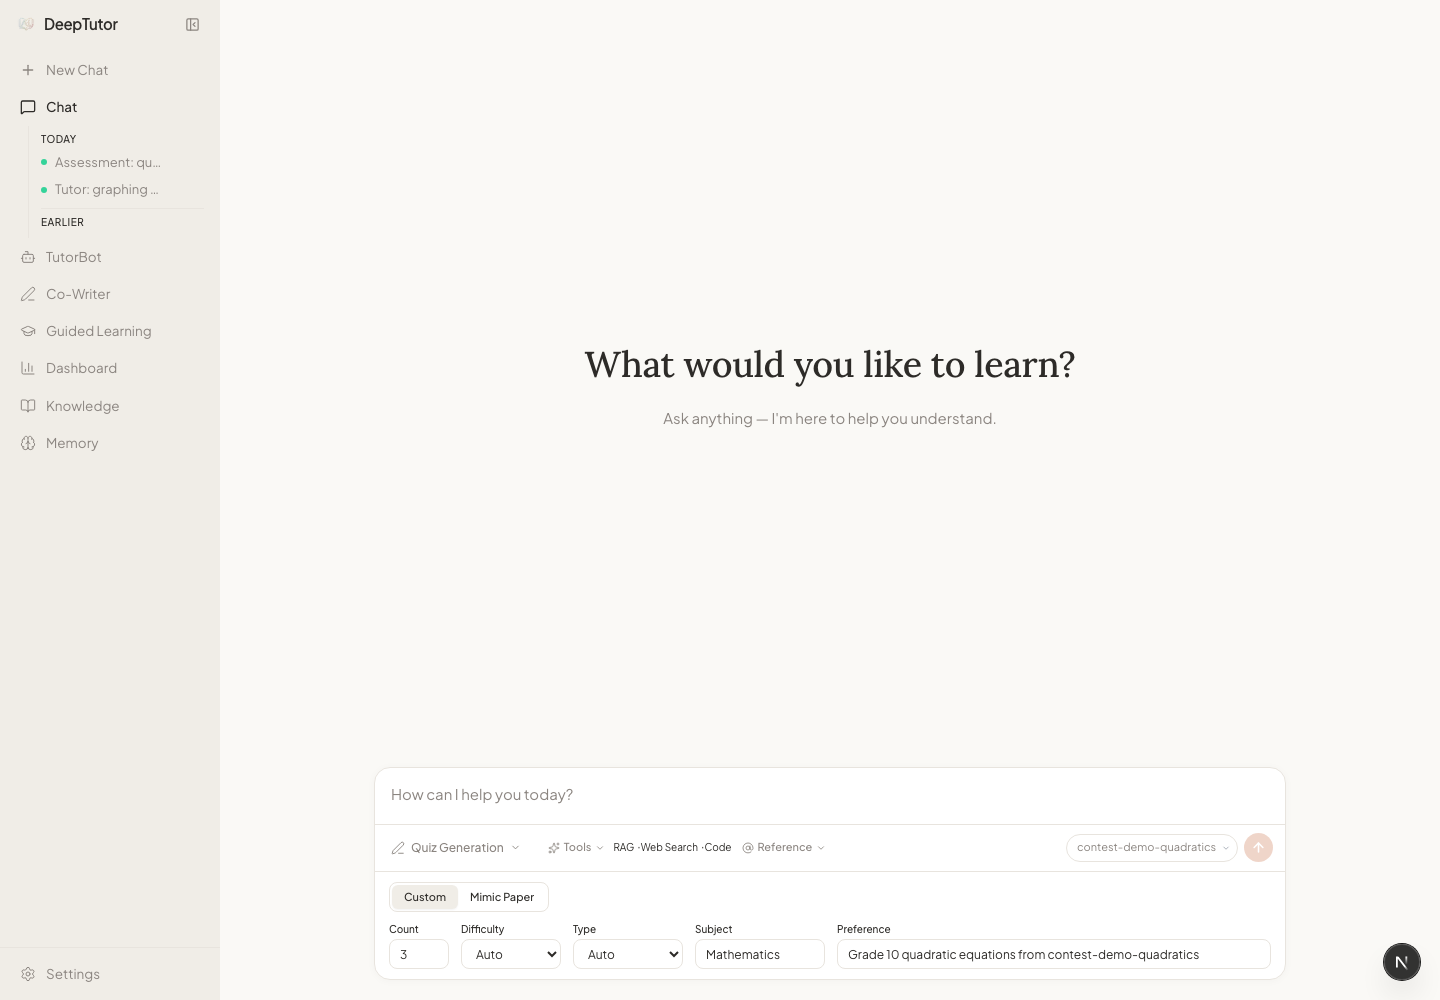
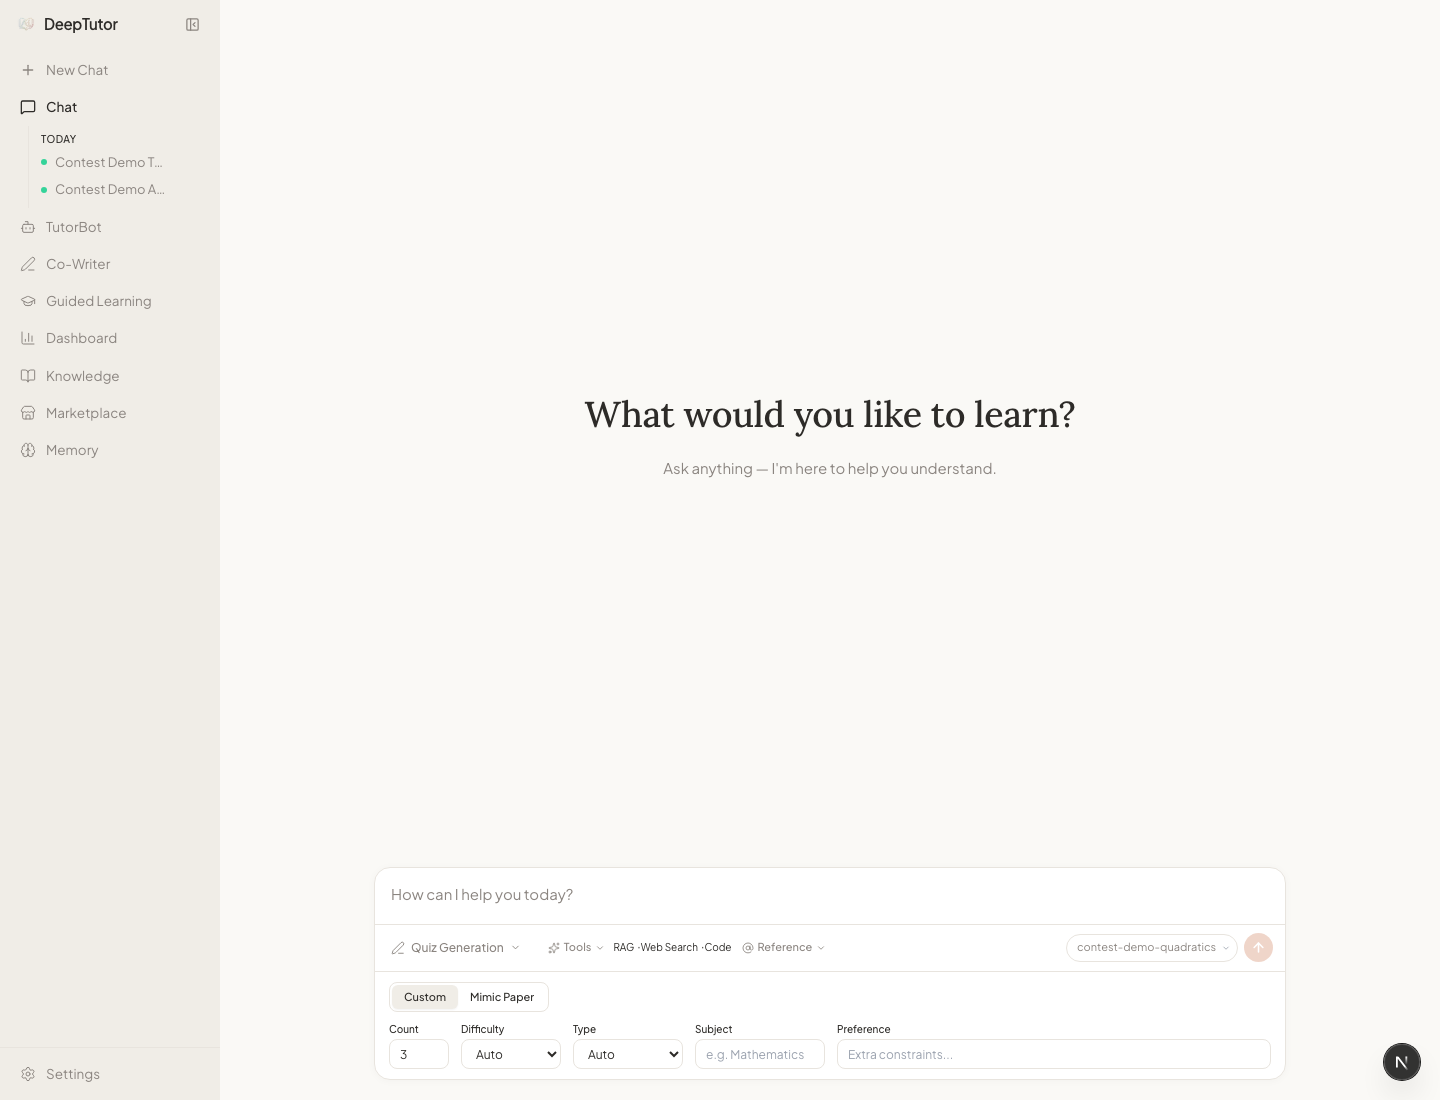
docs: refresh contest screenshot evidence

diff --git a/docs/contest/EVIDENCE_CHECKLIST.md b/docs/contest/EVIDENCE_CHECKLIST.md
@@ -8,15 +8,15 @@ Refresh these only when the UI changed or when the latest smoke-backed validatio
 
 | Area | Evidence | Refresh mode | Status | Notes |
 | --- | --- | --- | --- | --- |
-| Knowledge Pack | Metadata form filled with demo-safe subject, grade, curriculum, objectives, owner, and sharing status | Human capture | Stale | Existing capture is still linked, but recent merged UI changes were not followed by a new screenshot pass. |
-| Knowledge Pack | Metadata still visible after reload | Human capture | Stale | Existing capture is still linked, but recent merged UI changes were not followed by a new screenshot pass. |
-| Assessment | Quiz or assessment configuration using the demo subject or Knowledge Pack | Human capture | Stale | Existing capture is still linked, but recent merged UI changes were not followed by a new screenshot pass. |
-| Assessment | Generated questions visible | Human capture | Stale | Existing capture is still linked, but recent merged UI changes were not followed by a new screenshot pass. |
-| Assessment | Common-mistake or feedback guidance visible | Human capture | Stale | Existing capture is still linked, but recent merged UI changes were not followed by a new screenshot pass. |
-| Tutor Agent | Student asks a follow-up question | Human capture | Stale | Existing capture is still linked, but recent merged UI changes were not followed by a new screenshot pass. |
-| Tutor Agent | Tutor response with learning context | Human capture | Stale | Existing capture is still linked, but recent merged UI changes were not followed by a new screenshot pass. |
-| Dashboard | Summary cards visible | Human capture | Stale | Existing capture is still linked, but recent merged UI changes were not followed by a new screenshot pass. |
-| Dashboard | Recent activity includes assessment/tutoring distinction and Knowledge Pack reference | Human capture | Stale | Existing capture is still linked, but recent merged UI changes were not followed by a new screenshot pass. |
+| Knowledge Pack | Metadata form filled with demo-safe subject, grade, curriculum, objectives, owner, and sharing status | Human capture | Current | Refreshed on 2026-04-24 in `T037` from the current Knowledge Pack edit surface. |
+| Knowledge Pack | Metadata still visible after reload | Human capture | Current | Refreshed on 2026-04-24 in `T037` after reload against the current Knowledge Pack UI. |
+| Assessment | Quiz or assessment configuration using the demo subject or Knowledge Pack | Human capture | Current | Refreshed on 2026-04-24 in `T037` from the live assessment configuration flow. |
+| Assessment | Generated questions visible | Human capture | Current | Refreshed on 2026-04-24 in `T037` from the seeded contest assessment session. |
+| Assessment | Common-mistake or feedback guidance visible | Human capture | Current | Refreshed on 2026-04-24 in `T037` from the seeded contest assessment guidance view. |
+| Tutor Agent | Student asks a follow-up question | Human capture | Current | Refreshed on 2026-04-24 in `T037` from the seeded tutor replay session. |
+| Tutor Agent | Tutor response with learning context | Human capture | Current | Refreshed on 2026-04-24 in `T037` from the seeded tutor replay session. |
+| Dashboard | Summary cards visible | Human capture | Current | Refreshed on 2026-04-24 in `T037` from the current dashboard summary view. |
+| Dashboard | Recent activity includes assessment/tutoring distinction and Knowledge Pack reference | Human capture | Current | Refreshed on 2026-04-24 in `T037` from the current dashboard activity feed. |
 
 ## Required Command Evidence
 
@@ -59,6 +59,6 @@ Video status follows the same freshness states:
 | --- | --- | --- |
 | Full MVP story can be followed from docs | Passed | Start with `docs/contest/README.md`. |
 | Product commands have smoke-backed validation evidence | Passed | See `VALIDATION_REPORT.md`. |
-| Screenshots are captured and linked | Stale | Existing screenshot links remain available, but a fresh human capture is still required after recent UI merges. |
+| Screenshots are captured and linked | Passed | Screenshot bundle was refreshed on 2026-04-24 in `T037`. |
 | Video is captured or explicitly deferred | Deferred | Optional unless submission requires it. |
 | No secrets or private data in evidence | Passed | Screenshots use demo-safe Knowledge Pack and session data. |

diff --git a/ai_first/daily/2026-04-24.md b/ai_first/daily/2026-04-24.md
@@ -449,3 +449,66 @@
 
 - Task `T034_BATCH_ASSESSMENT_IMPORT`: implementation complete on branch `pod-a/t034-batch-import`
 - Next: self-review the diff, commit, push, open Draft PR linked to issue `#90`, then monitor CI and merge per AI-first policy
+
+## T036 Contest Smoke and Evidence Refresh — Merge Complete
+
+### Completed in this cycle
+
+1. PR `#96` passed required CI and merged to `main`.
+2. Issue `#95` was closed after the merge.
+3. `T036` status was advanced to `completed` in the task tracking flow.
+
+### Status
+
+- Task `T036_CONTEST_EVIDENCE_REFRESH`: moved to `completed`
+- Next: refresh the screenshot bundle so evidence can move from `Stale` back to `Current`
+
+## T037 Contest Screenshot Evidence Refresh — Task Selection
+
+### Completed in this cycle
+
+1. Derived the next short task from the remaining evidence blocker after `T036` merged.
+2. Opened GitHub issue `#97` for `T037`.
+3. Added task packet:
+   - `docs/superpowers/tasks/2026-04-24-T037-contest-screenshot-refresh.md`
+4. Updated task tracking mirrors:
+   - `ai_first/TASK_REGISTRY.json`
+   - `ai_first/EXECUTION_QUEUE.md`
+   - `ai_first/AI_OPERATING_PROMPT.md`
+
+### Status
+
+- Task `T037_CONTEST_SCREENSHOT_REFRESH`: moved to `in-progress`
+- Next: capture a fresh screenshot bundle for the contest flow and refresh screenshot evidence docs
+
+## T037 Contest Screenshot Evidence Refresh — Capture and Docs Refresh
+
+### Completed in this cycle
+
+1. Reused the merged smoke baseline from `T036` and reset the demo-safe data:
+   - `python3 -m scripts.contest.reset_demo_data --project-root . --api-base http://localhost:8001`
+2. Started the local backend through the repository-root virtual environment:
+   - `/Users/nguyenhuuloc/Documents/Multiagent-learning-platform/.venv/bin/python -m deeptutor_cli.main serve --host 127.0.0.1 --port 8001`
+3. Installed fresh worktree frontend dependencies and browser tooling:
+   - `cd web && npm ci`
+   - `cd web && npx playwright install chromium`
+4. Started the local frontend capture surface:
+   - `cd web && npx next dev --hostname 127.0.0.1 --port 3000`
+5. Refreshed the linked screenshot bundle under:
+   - `docs/contest/screenshots/01-knowledge-pack-metadata.png`
+   - `docs/contest/screenshots/02-knowledge-pack-after-reload.png`
+   - `docs/contest/screenshots/04-assessment-config.png`
+   - `docs/contest/screenshots/05-dashboard-summary-and-activity.png`
+   - `docs/contest/screenshots/06-tutor-agent-answer.png`
+   - `docs/contest/screenshots/07-assessment-generated-questions.png`
+   - `docs/contest/screenshots/08-assessment-common-mistakes.png`
+6. Refreshed screenshot evidence docs:
+   - `docs/contest/EVIDENCE_CHECKLIST.md`
+   - `docs/contest/VALIDATION_REPORT.md`
+7. Added the required PR note:
+   - `docs/superpowers/pr-notes/2026-04-24-t037-contest-screenshot-refresh.md`
+
+### Status
+
+- Task `T037_CONTEST_SCREENSHOT_REFRESH`: screenshot bundle and docs refresh complete on branch `docs/t037-contest-screenshot-refresh`
+- Next: run final docs/control-plane validation, self-review, and publish the screenshot-refresh lane for CI

diff --git a/docs/contest/VALIDATION_REPORT.md b/docs/contest/VALIDATION_REPORT.md
@@ -16,7 +16,7 @@ Latest smoke-backed refresh: 2026-04-24
 | --- | --- | --- | --- |
 | Backend and API reachability | Auto after smoke | Current | Scripted-reset smoke run recorded in `ai_first/daily/2026-04-24.md`. |
 | Frontend production build | Auto after smoke | Current | `npm run build` passed on 2026-04-24 with `NEXT_PUBLIC_API_BASE=http://localhost:8001` from `web/.env.local` after installing worktree dependencies. |
-| Screenshot bundle | Human capture after smoke when the UI changes | Stale | Recent merged UI changes were smoke-validated on 2026-04-24, but no new human screenshot capture was performed in this lane. |
+| Screenshot bundle | Human capture after smoke when the UI changes | Current | Refreshed on 2026-04-24 in `T037` against the latest merged UI after the 2026-04-24 smoke baseline. |
 | Optional video | Human capture only | Deferred | No external video is required yet. |
 
 Use these status values consistently:
@@ -41,7 +41,7 @@ Use these status values consistently:
 
 ## Current Known Limitations
 
-- Screenshot evidence is captured under `docs/contest/screenshots/`, but the current bundle is stale until a new human capture refresh happens.
+- Screenshot evidence is captured under `docs/contest/screenshots/`, and the current bundle was refreshed on 2026-04-24 in `T037`.
 - Video evidence is deferred unless the final contest submission requires it.
 - The frontend build emits a Next.js warning about multiple lockfiles and inferred workspace root. The build still completes successfully.
 - Screenshot freshness still requires a human capture step when the UI meaningfully changes.
@@ -80,7 +80,7 @@ The 2026-04-24 scripted-reset smoke run verified the full MVP path in order:
 2. backend started successfully with the repository-local virtual environment through the CLI server path;
 3. system status, knowledge list, dashboard overview, dashboard recent, assessment session, and tutor session endpoints all returned the expected demo-safe data;
 4. the frontend production build passed against `http://localhost:8001`;
-5. the existing screenshot bundle was not recaptured during this lane, so screenshot status is now `Stale` until a human refresh confirms the latest UI.
+5. the screenshot bundle was refreshed in `T037`, so screenshot status is back to `Current` for the latest merged UI.
 
 ## Manual Verification Template
 

diff --git a/docs/superpowers/pr-notes/2026-04-24-t037-contest-screenshot-refresh.md b/docs/superpowers/pr-notes/2026-04-24-t037-contest-screenshot-refresh.md
@@ -1,0 +1,33 @@
+# T037 Contest Screenshot Evidence Refresh
+
+## Summary
+
+- refreshed the linked contest screenshot bundle on 2026-04-24 against the latest merged UI
+- reused the smoke-backed command evidence already established by `T036`
+- moved screenshot evidence status from `Stale` back to `Current`
+- kept the change docs-only; `ai_first/architecture/MAIN_SYSTEM_MAP.md` did not change
+
+## Flow
+
+```mermaid
+flowchart LR
+    A["T036 smoke baseline on main"] --> B["Local backend + frontend started"]
+    B --> C["Knowledge screenshots recaptured"]
+    B --> D["Assessment screenshots recaptured"]
+    B --> E["Tutor + dashboard screenshots recaptured"]
+    C --> F["Screenshot bundle refreshed"]
+    D --> F
+    E --> F
+    F --> G["Evidence docs updated to Current"]
+```
+
+## Files
+
+- `docs/contest/screenshots/*`
+- `docs/contest/EVIDENCE_CHECKLIST.md`
+- `docs/contest/VALIDATION_REPORT.md`
+- `docs/superpowers/tasks/2026-04-24-T037-contest-screenshot-refresh.md`
+- `ai_first/TASK_REGISTRY.json`
+- `ai_first/EXECUTION_QUEUE.md`
+- `ai_first/AI_OPERATING_PROMPT.md`
+- `ai_first/daily/2026-04-24.md`
